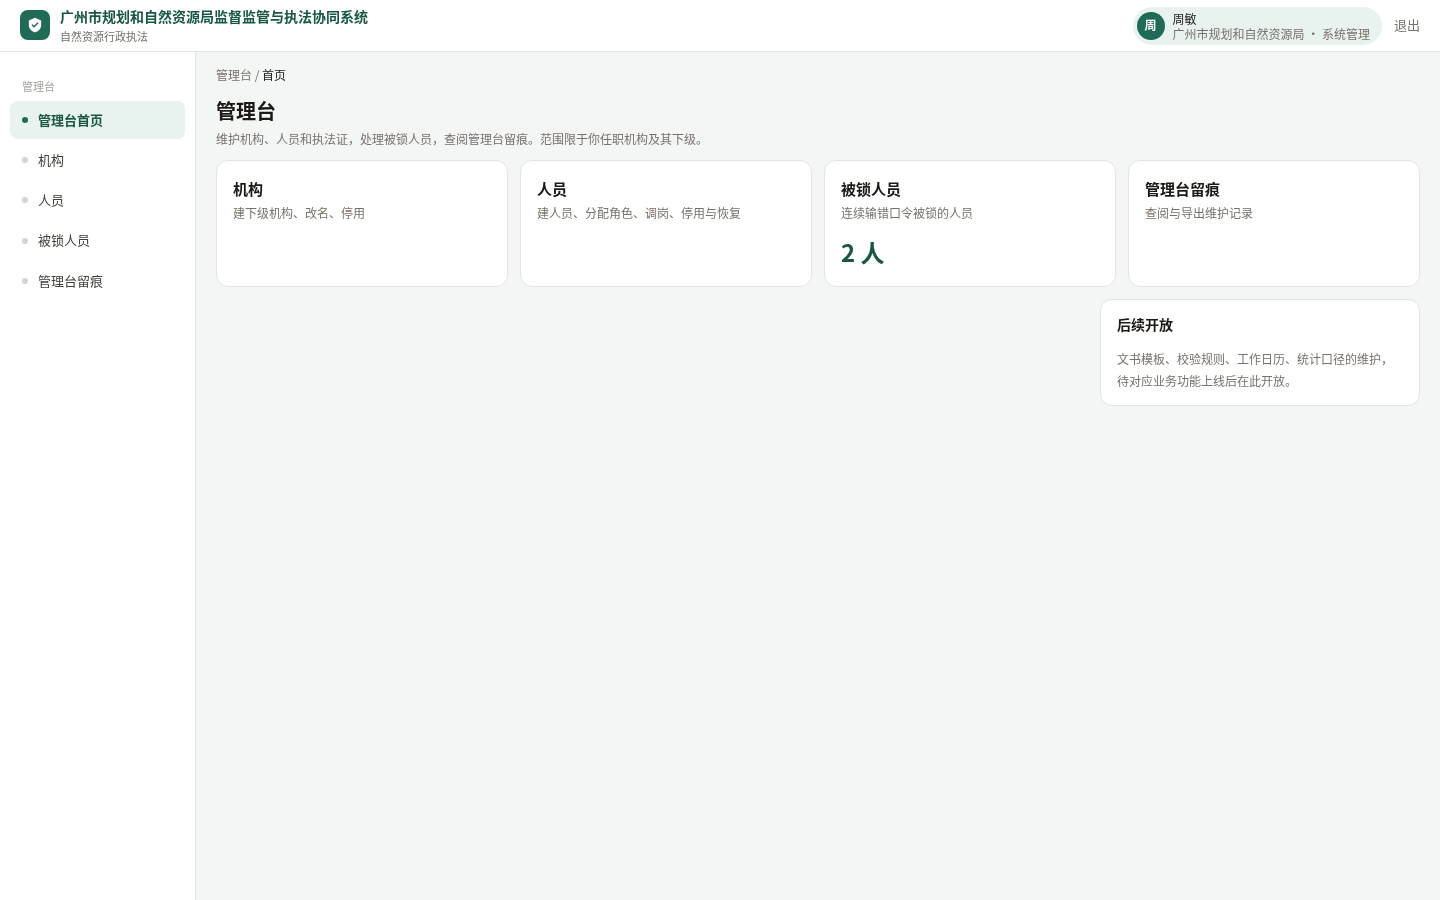
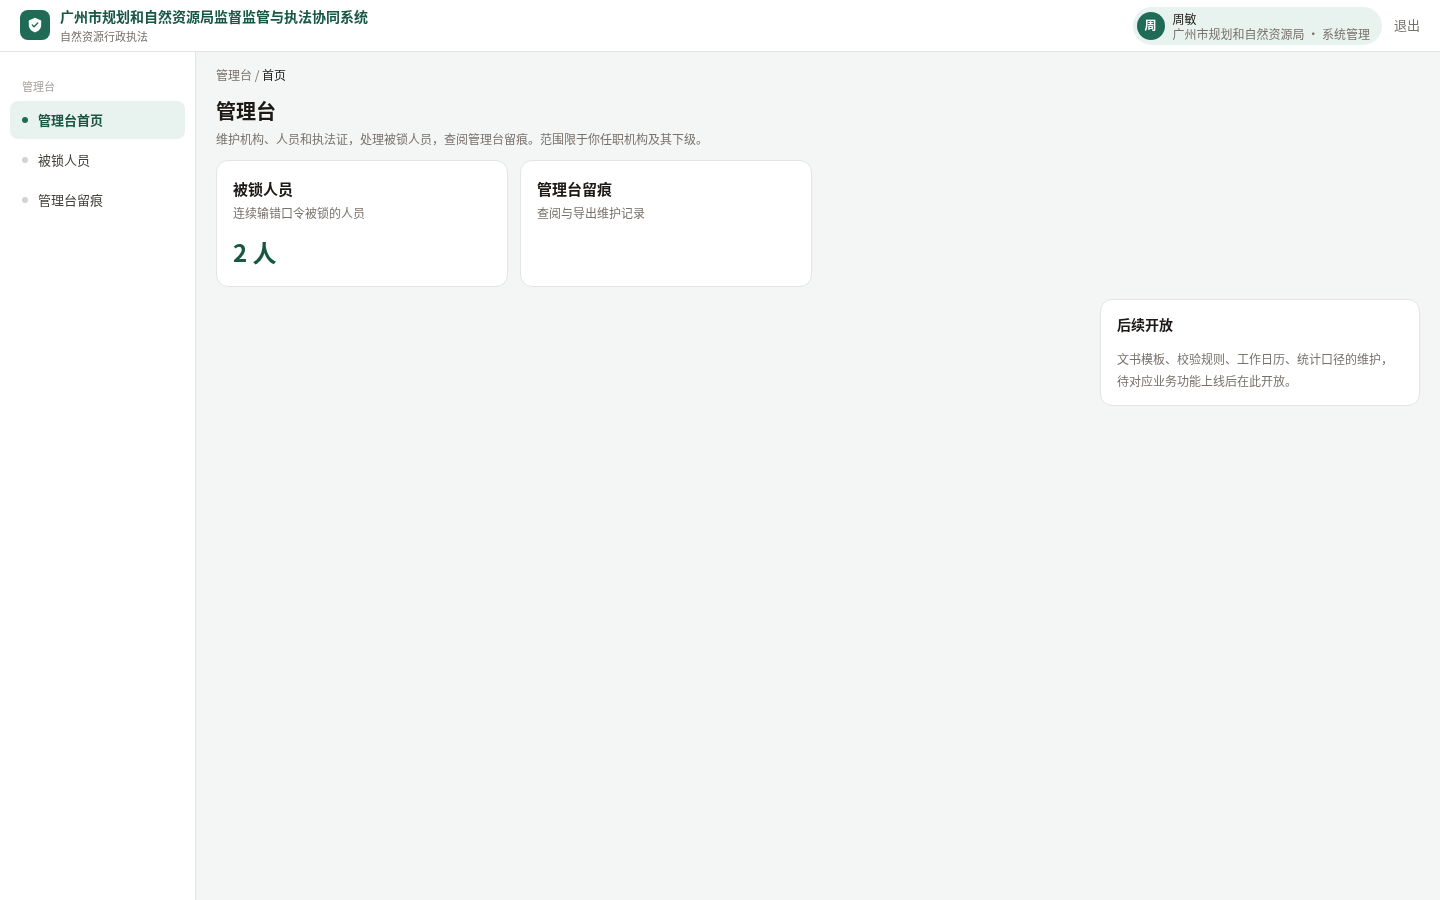
docs:2026-10-18-01-33||按名册真实操作码重截受影响的 P1–P3 截图与对照图（前端验收必须改 3，#122）

diff --git a/docs/screens/122/README.md b/docs/screens/122/README.md
@@ -2,6 +2,10 @@
 
 - 规格：Chrome 155 headless，视口宽 1440，整页截图，2026-10-18（UTC+8）。
 - 本目录 `<状态>.png` 是实现截图；`compare/<状态>.png` 是对照图，左边为原型 v0.4（`frontend/prototype/admin-console/screens/`），右边为实现，缩到一半大小。
-- 做法：用模拟接口按状态返回会话和接口结果，驱动构建后的前端产物截图。人物沿用原型 `assets/shell.js` 里的人员；操作码用名册里的真实码。
+- 做法：用模拟接口按状态返回会话和接口结果，驱动构建后的前端产物截图。人物沿用原型 `assets/shell.js` 里的人员（姓名、工号、机构、角色）。
+- 操作码：每个人物的会话清单按「名册 `packages/shield/src/contract/opcode.ts` + 参照种子允许行 `backend/prisma/seed.mjs`」推出，口径同 `listPermittedOpcodes`（名册顺序、只含名册里的码、改变主状态的码不计监督）。**不含任何未入名册的码**。
+  - 所以「机构」（要 `org.unit.register`，#123 入名册）、「人员」（要 `personnel.profile.read`，#128 入名册）两个菜单项和入口卡在 P1-multi、P2-forbidden、P3-admin、P3-loading、P3-error 里都没有出现；这是当前名册下的真实画面，差异逐条列在 PR #140「截图对照」。
+  - 监督按 #71 允许行持有 `clue.read`，所以 P3-supervise 左导比原型多「线索」一项。
+- 2026-10-18 按 PR #140 前端验收意见重截：P1-multi、P1-single、P1-noadmin、P2-forbidden、P3-admin、P3-error、P3-loading、P3-supervise 和 `extra/P1-expiry.png` 换新（「我的待办」照原型恢复、操作码改用真实清单）。其余 7 张用同一提交的产物重截后与原图逐像素一致，未替换。
 - `extra/P1-expiry.png` 是口令到期横幅（原型没有单独状态），没有对照图。它不在 v0.4 的 78 个状态键里，**不计入 #134 的截图全集核对**；横幅按 #105「截图验收」以单测验收。本目录根下只放 78 个状态键里的文件。
 - 逐张差异说明见 PR #140「截图对照」一节。
